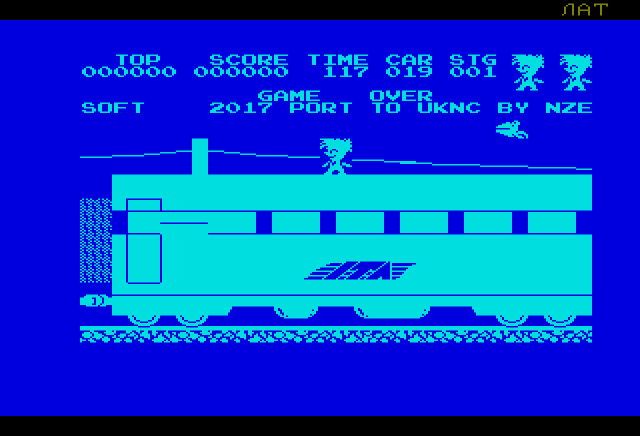
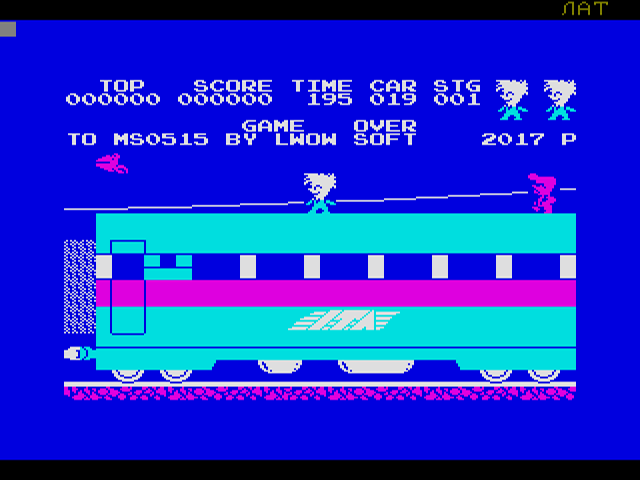
Screenshot updated.

diff --git a/README.md b/README.md
@@ -9,6 +9,10 @@ Screenshots of the ported version:
 
 ![](screenshot/demoscreen.png)
 
+Screenshot of the original game on MS-0515:
+
+![](screenshot/original-ms0515.png)
+
 #### See Also
 
  - [Porting BK game Lode Runner to UKNC](https://github.com/nzeemin/uknc-loderunner)
